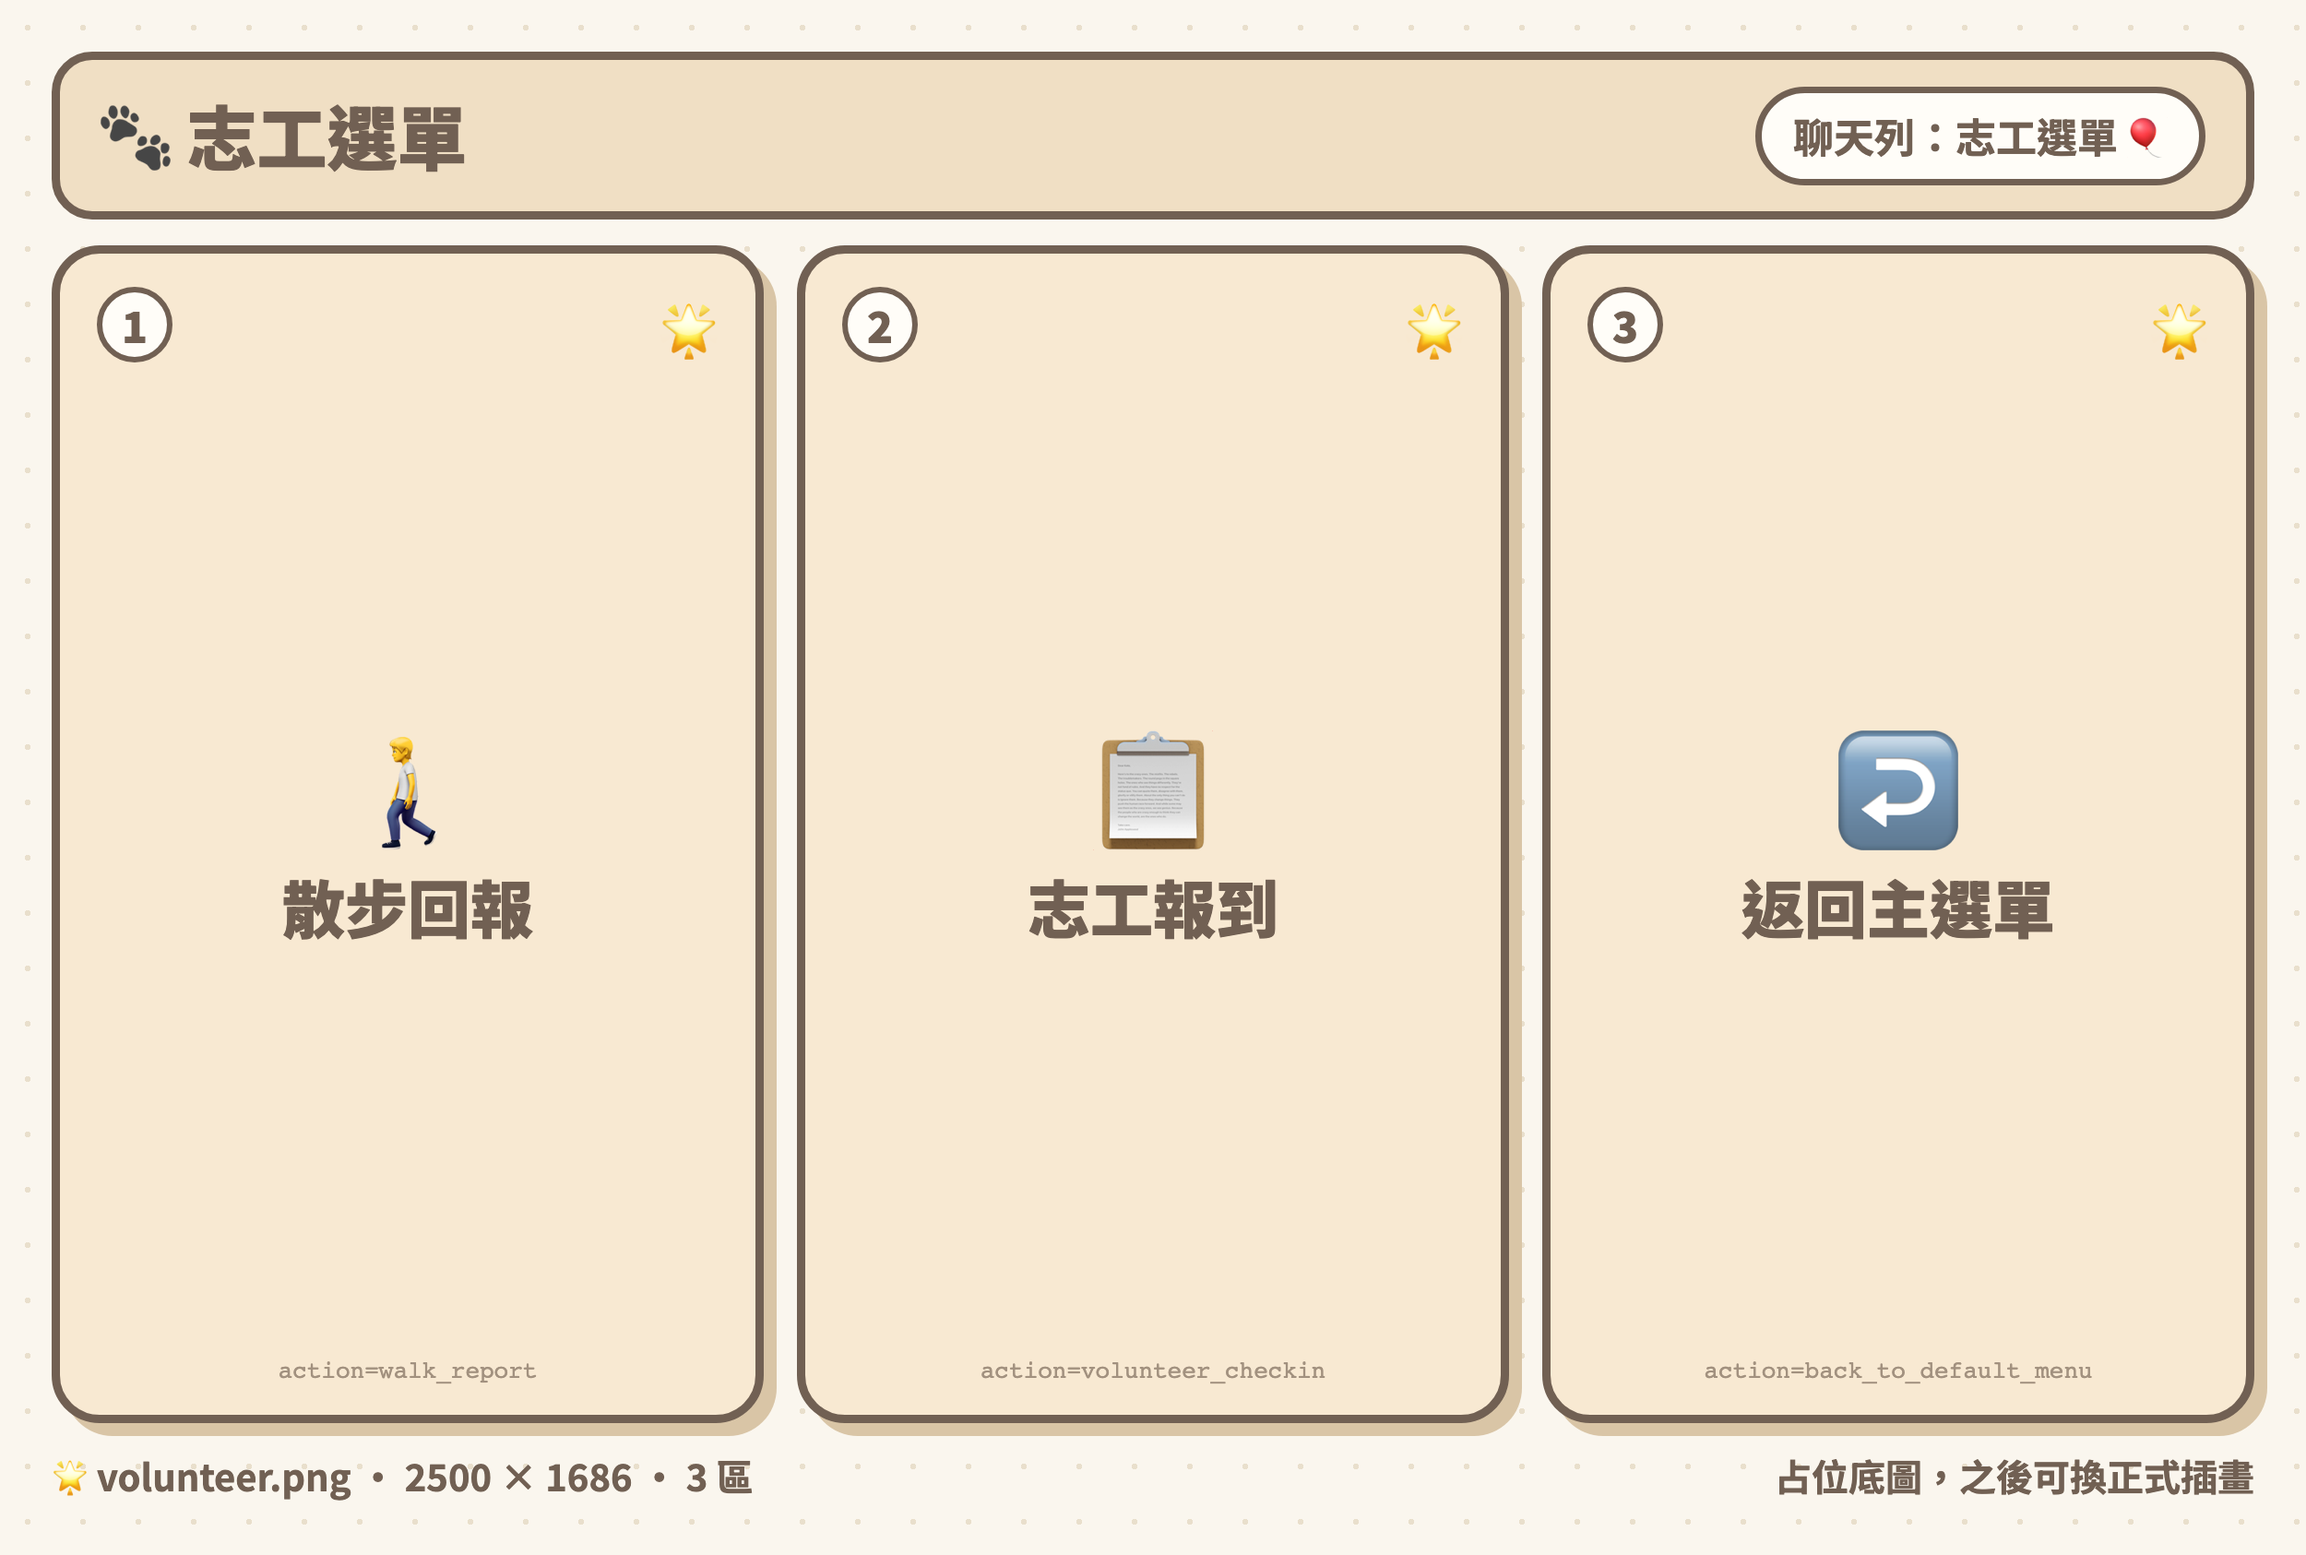
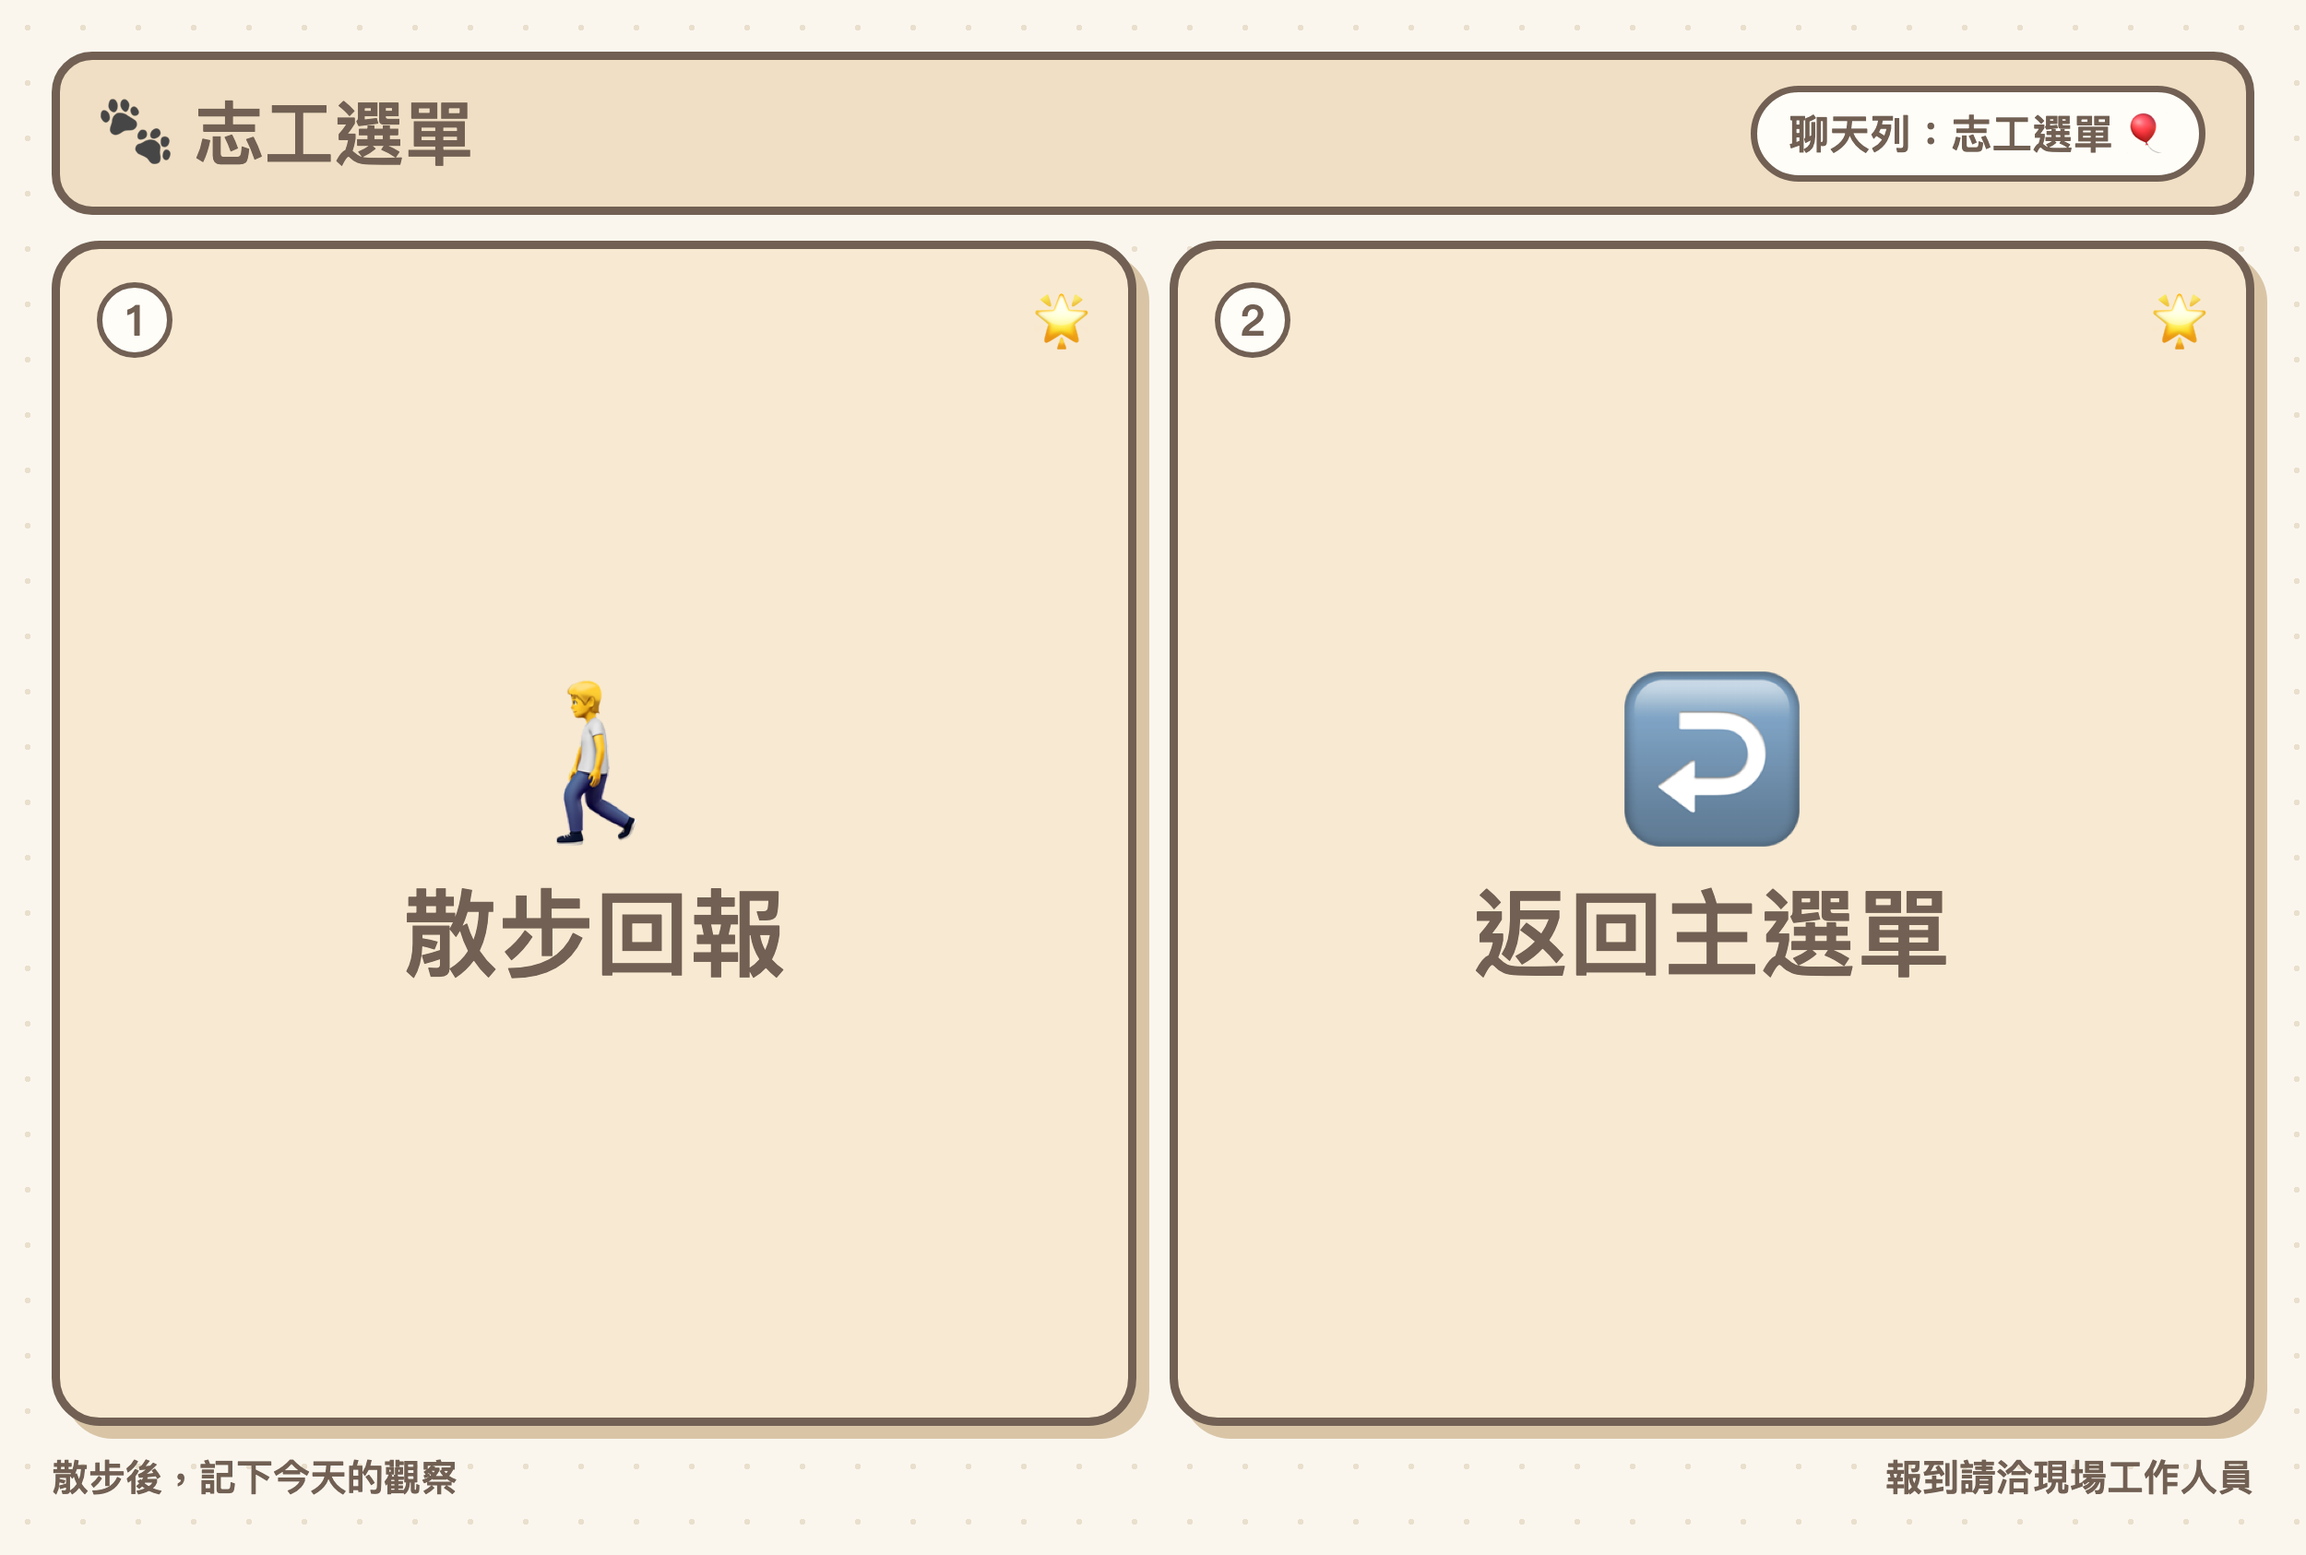
Remove unavailable volunteer check-in from LINE menu

Changed region(s): [[0.0, 0.0617, 0.9672, 0.987]]

diff --git a/services/api/app/api/line_webhook.py b/services/api/app/api/line_webhook.py
@@ -639,7 +639,7 @@ async def _handle_public_volunteer_application_entry(
         await _reply(
             line,
             event,
-            [_text("已切回志工選單，請由下方選單點選「散步回報」或「志工報到」。")],
+            [_text("已切回志工選單，請由下方選單點選「散步回報」。")],
         )
         return True
     await _reply(line, event, [_volunteer_application_entry_message()])

diff --git a/services/api/app/application/line_menu_actions.py b/services/api/app/application/line_menu_actions.py
@@ -14,7 +14,7 @@ MENU_PLACEHOLDER_ACTIONS: dict[str, str] = {
     # 預設選單
     "shelter_info": "這裡將顯示收容所基本資訊（開發中）。",
     # 志工選單
-    "volunteer_checkin": "志工報到功能開發中，稍後開放。",
+    "volunteer_checkin": "線上報到尚未開放，請向現場工作人員確認報到方式。",
 }
 
 

diff --git a/line_bot_review.md b/line_bot_review.md
@@ -4,7 +4,7 @@
 
 ## 目標與範圍
 
-改善台灣收容所志工與領養人在 LINE 內的操作順暢度，優先處理流程互相干擾、資料不易修改及入口提示不完整的問題。本文件為待實作計畫，尚未修改 LINE bot 功能。
+改善台灣收容所志工與領養人在 LINE 內的操作順暢度，優先處理流程互相干擾、資料不易修改及入口提示不完整的問題。下列四項功能已完成程式實作與自動化驗證；實機 LINE 驗收及新選單發布尚未執行。
 
 保留志工既有六項觀察、照片、補充與故事內容，以及領養問卷與 AI 分析邏輯。這次不擴充報到系統，也不調整後台回報 AI 整理功能。
 
@@ -120,7 +120,7 @@
 - 公開領養資料沿用公開可領養範圍，不能因新增搜尋而暴露非公開資料。
 - 保留 LINE 簽章驗證、快速 webhook 回覆及重複事件處理。
 - 文字使用台灣繁體中文；使用者畫面不顯示 JSON、狀態代碼或技術錯誤。
-- 本計畫不包含自行發布選單、傳送通知、提交 commit 或推送遠端。
+- 依後續指示，每項功能完成後各自提交 commit；不自行發布 LINE 選單、傳送通知或推送遠端。
 
 ## 驗證與完成條件
 
@@ -139,7 +139,7 @@
 - 明確入口切換、主選單暫停、舊卡片拒絕及既有單一草稿恢復已實作；多草稿需選擇入口。
 - 保留其他草稿，並修正領養流程收到照片時提示卡片缺少必要參數的錯誤。
 - 驗證包含同一使用者的領養草稿／志工補充、主選單暫停、舊卡片及既有草稿判斷。
-- 本機專用測試資料庫已套用 migration；實際服務資料庫與實機 LINE 驗收仍需部署時處理。
+- 本機專用測試資料庫及本機開發資料庫已套用 migration；遠端部署與實機 LINE 驗收尚未執行。
 
 ### 功能二：領養聯絡資料單欄修改
 
@@ -153,3 +153,19 @@
 - 支援 20 字以內名稱／編號搜尋，多筆顯示可選清單，零筆可返回全部清單；搜尋字元按字面匹配。
 - 查詢在資料庫依所選收容所、有效及可領養狀態過濾並穩定排序；確認動物時再次驗證狀態。
 - 24 項相關測試通過，包含超過 12 隻、搜尋分頁、零筆／單筆、其他收容所隔離及選取後狀態改變。
+
+
+### 功能四：志工選單與報到提示
+
+- 志工選單移除尚未開放的報到入口，保留散步回報與返回主選單。
+- 舊 `volunteer_checkin` 按鈕回覆請洽現場工作人員，不產生報到紀錄。
+- 已更新志工選單圖片，移除其技術代碼，目視確認文字完整且兩個操作區一致；產圖工具支援只重繪指定角色並使用本機字型。
+- 選單定義 dry-run 驗證通過，57 項選單相關測試通過；尚未使用 `--apply` 發布。
+
+### 最終驗證與部署狀態
+
+- 整體 130 項回歸測試通過，包含志工／領養／毛孩日記、簽章、草稿續填、跨收容所隔離及新增操作；測試隔離 LINE 與 Gemini，未發送真實訊息。
+- 本機開發與測試資料庫均已套用 `0048_line_current_flow`。遠端需先套用 migration，再載入新版 API。
+- 未修改前端 API 合約；此次互動介面為 LINE 訊息卡片與選單資產。
+- 尚待實機確認 LINE 卡片顯示、相機上傳及新選單點擊範圍；自動化測試不能代替實機驗收。
+- 已完成前三項 commit：`fd9fb3e`（流程分派）、`635f8b0`（聯絡資料編輯）、`70f6db5`（動物分頁搜尋）；第四項與本紀錄一併提交。
